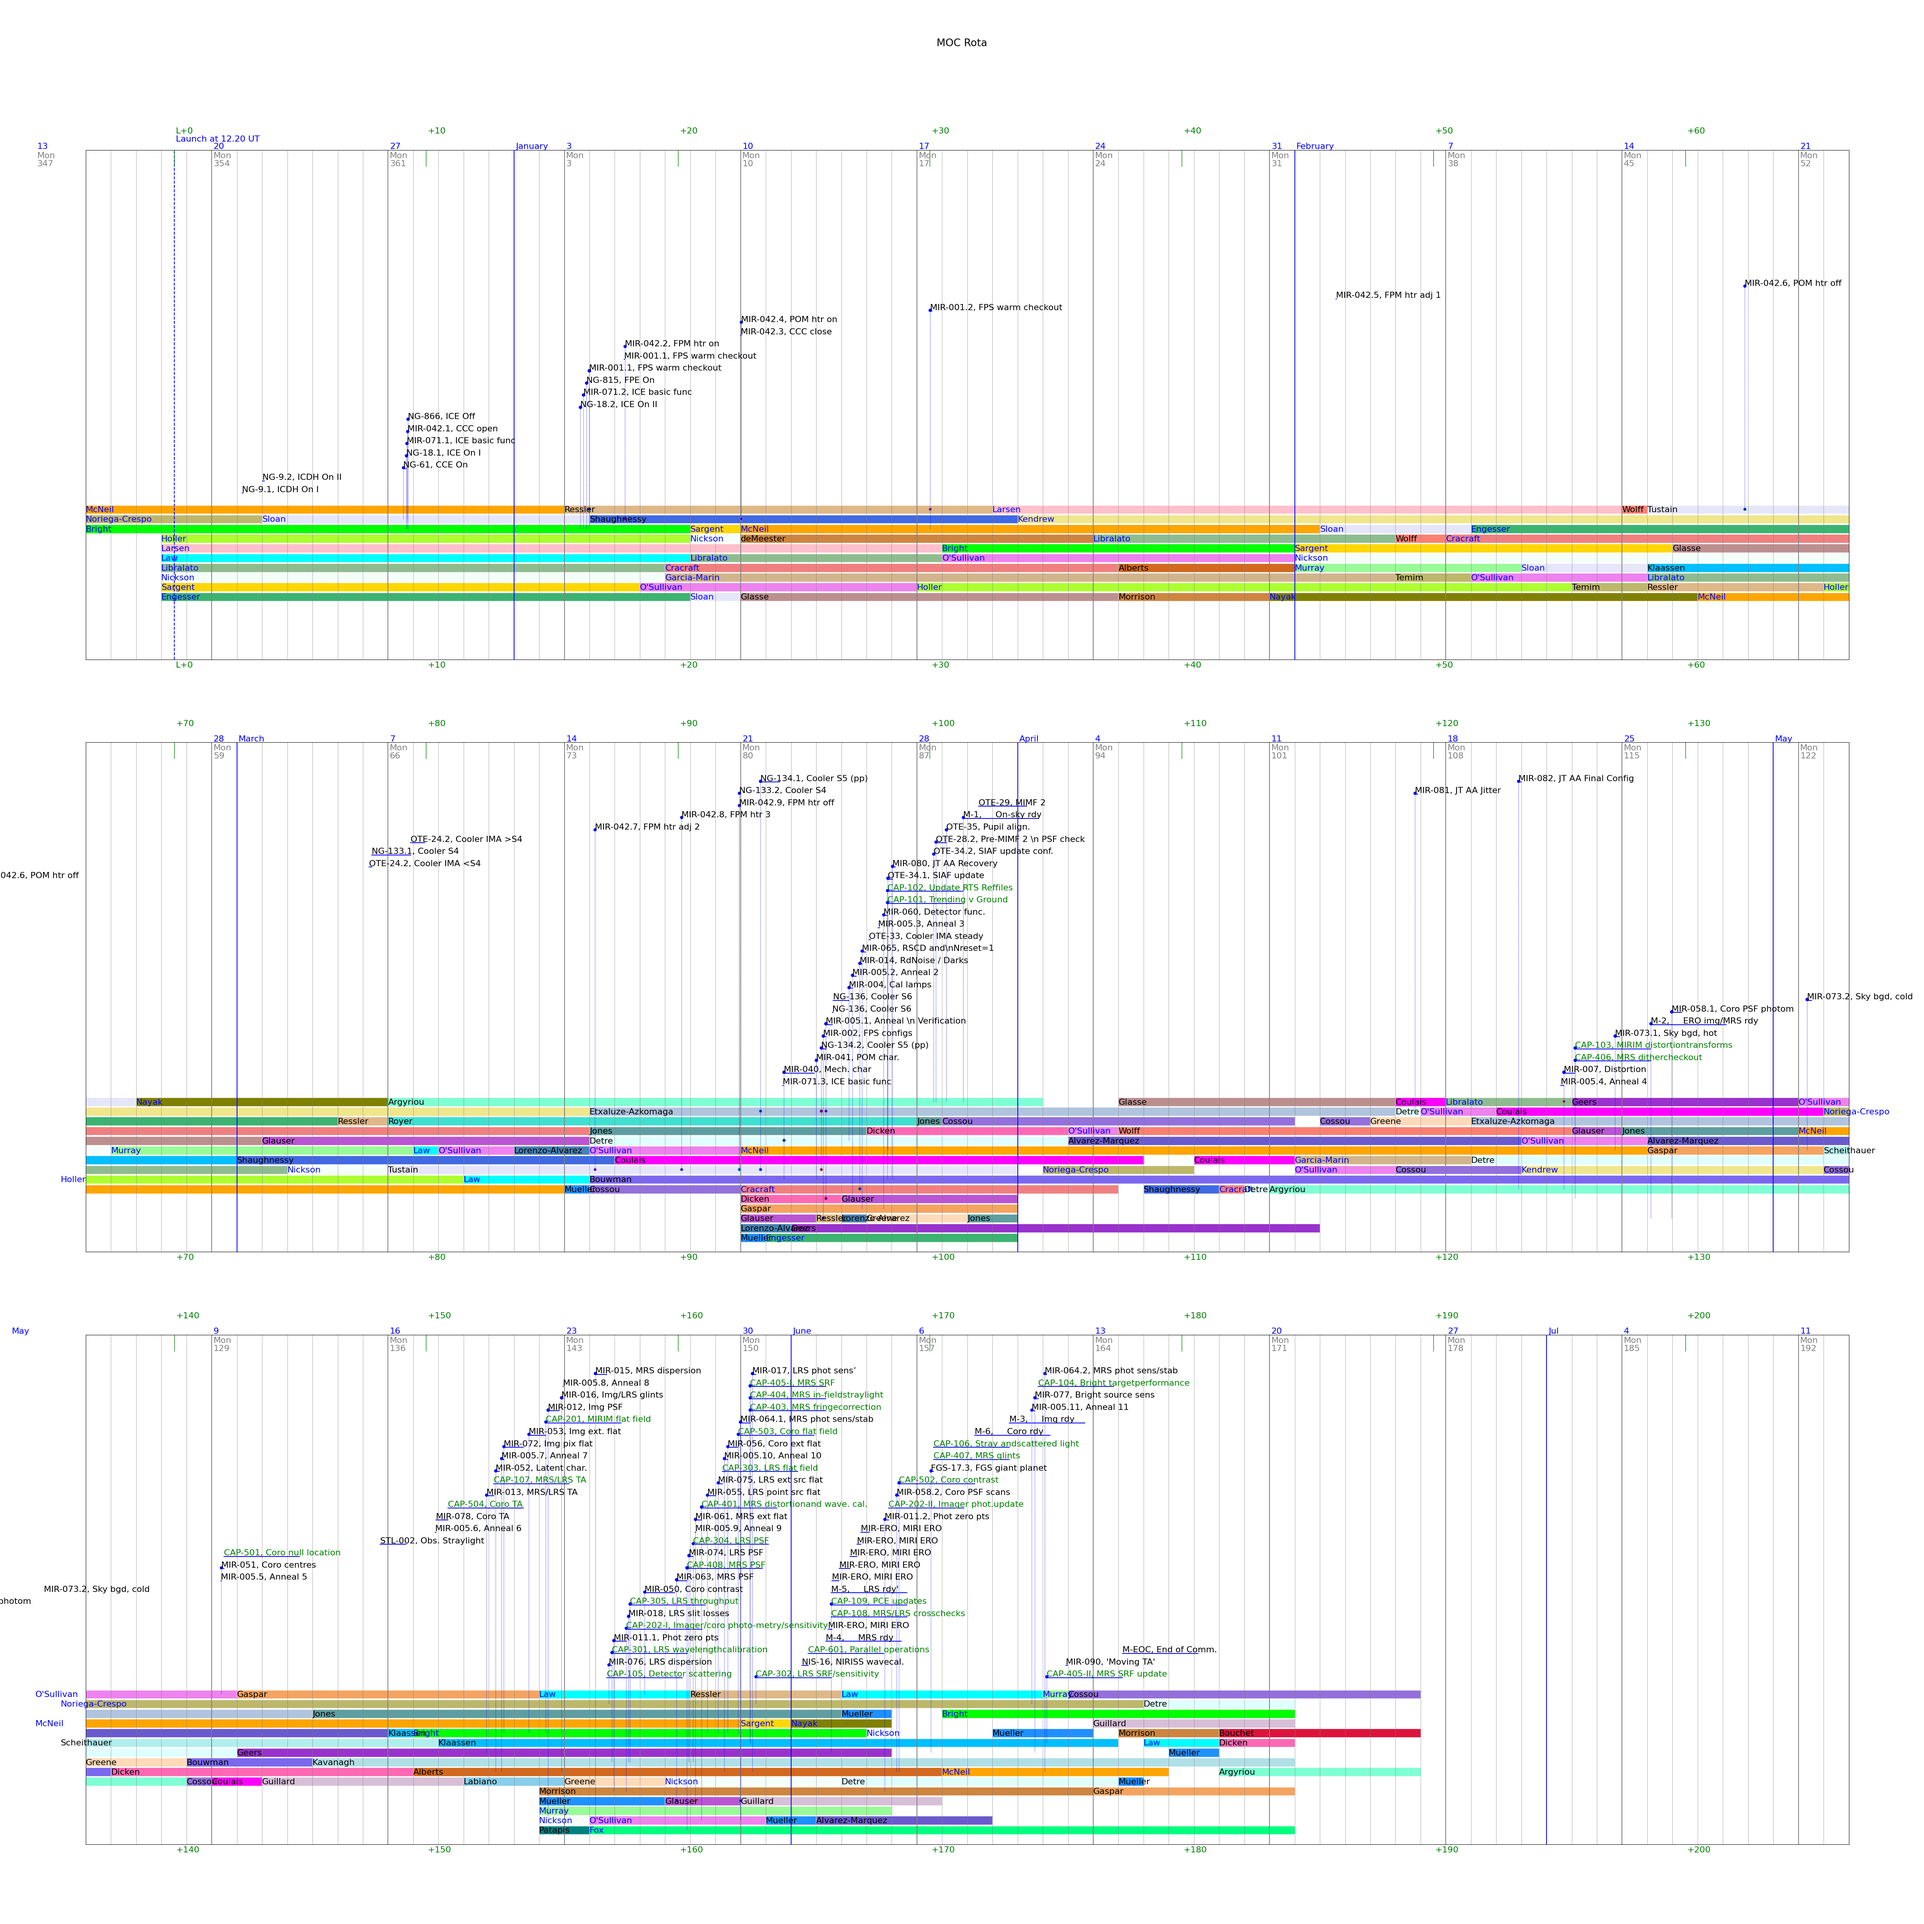
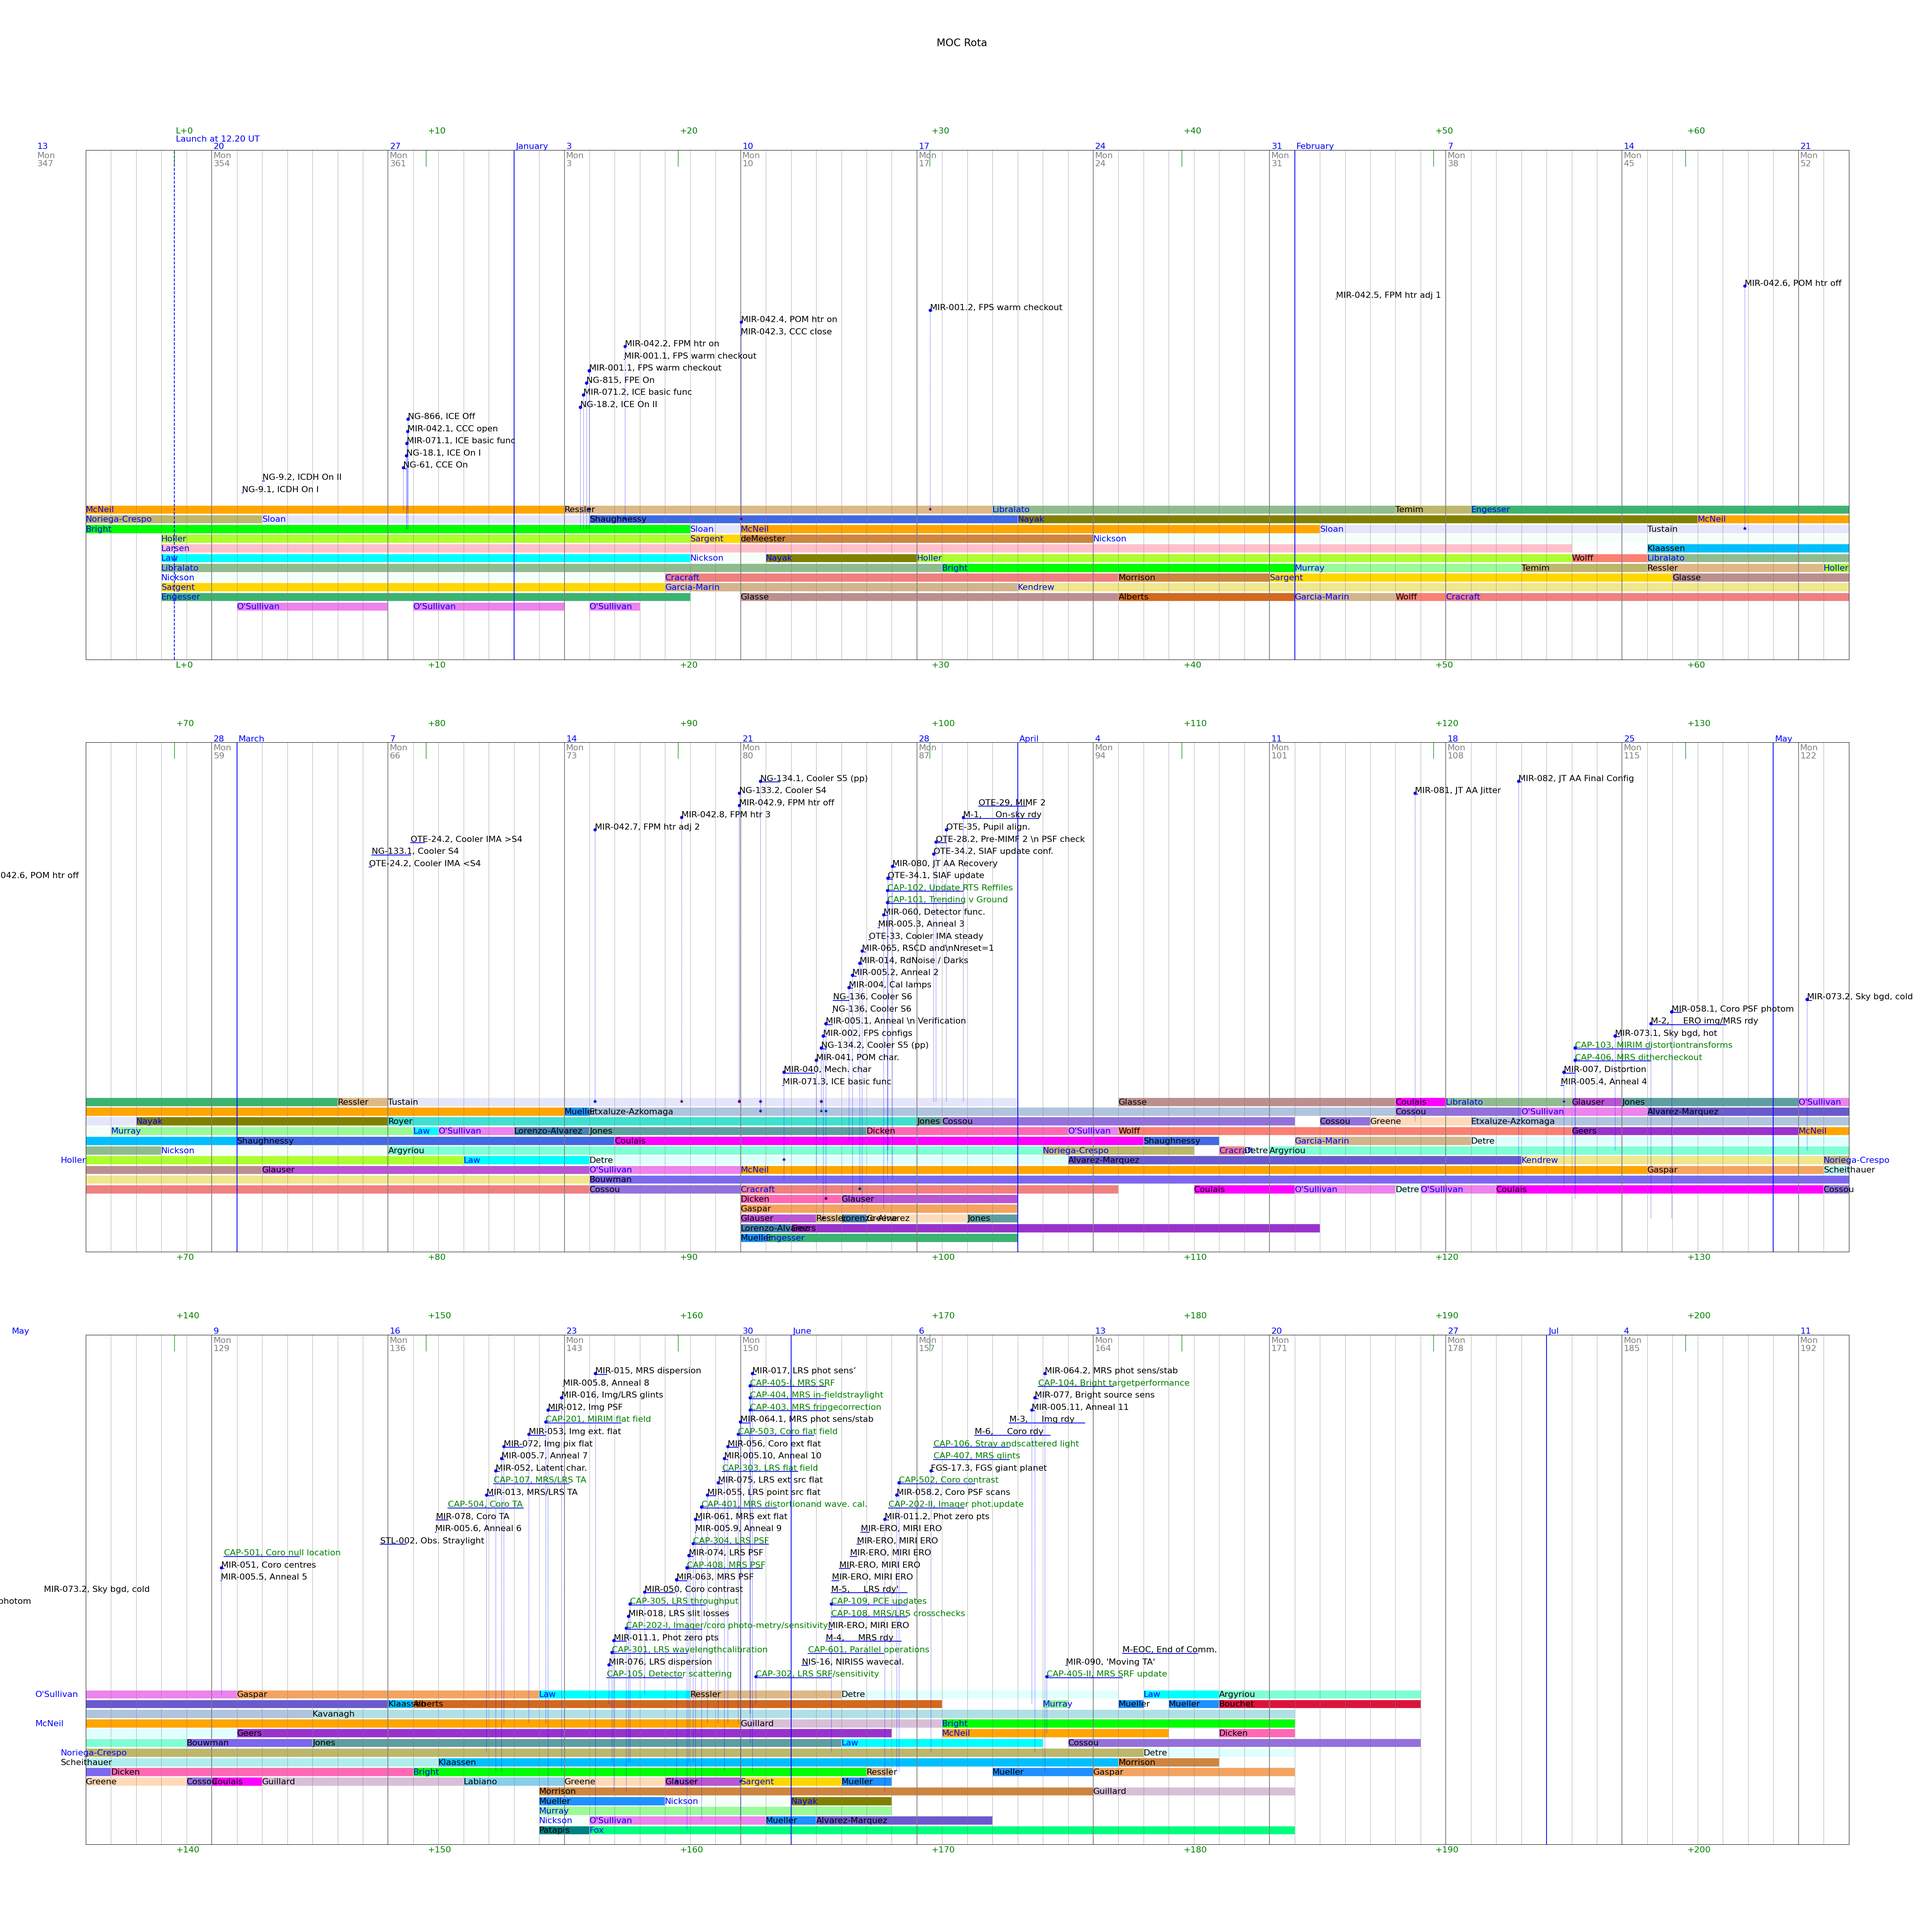
Scheduled 11 shifts per day and made Brian available for MOC shifts over Christmas/New year period, (Laszlo, email, 10/11/21)

diff --git a/source/shift_plan.py b/source/shift_plan.py
@@ -48,7 +48,7 @@ class ShiftPlan:
         n_slots_max = 15
         n_slots_nominal = 10                                            # More slots for peak stress
         daily_slot_quota = np.full((n_days), n_slots_nominal)           # Count of slots on each day
-        unusual_slots = [(-6, -1, 3), (93, 103, 15), (155, 168, 15), (185, 190, 3)]     # L+a L+b nshifts
+        unusual_slots = [(-6, -1, 3), (3, 18, 11), (93, 103, 15), (155, 168, 15), (185, 190, 3)]     # L+a L+b nshifts
         for uslot in unusual_slots:
             col1 = uslot[0] - ShiftPlan.start_md
             col2 = uslot[1] - ShiftPlan.start_md
